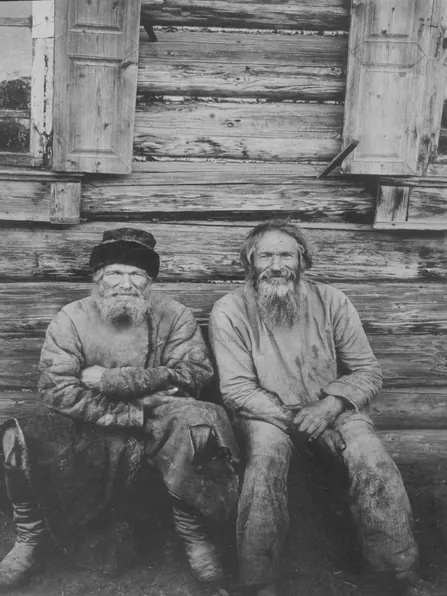
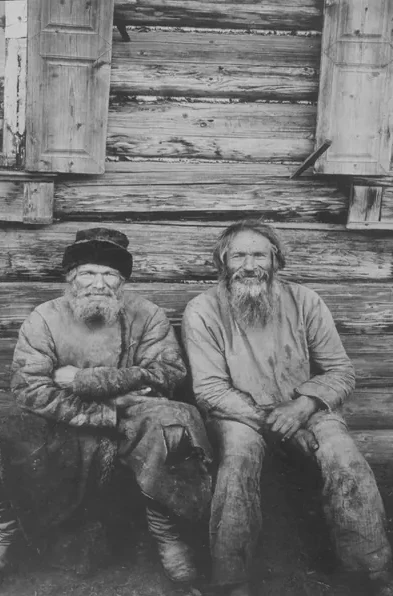
Book page: homepage reviews block with video review card; stack cards: shadow only while overlapping; collage: trim old-men photo sides
Claude-Session: https://claude.ai/code/session_01XBga8g7oiPbhFfgygAHQL5

diff --git a/rodoslovnaya-kniga.html b/rodoslovnaya-kniga.html
@@ -6,7 +6,7 @@
   <title>Родословная книга на заказ — история семьи в одном издании | Древо предков</title>
   <meta name="description" content="Генеалогическое исследование по архивам: ищем и расшифровываем документы о ваших предках и оформляем результат в родословную книгу с родословным древом. Рассчитайте стоимость онлайн.">
   <link rel="icon" href="img/favicon.ico" sizes="any">
-  <link rel="stylesheet" href="css/style.css?v=20261016e">
+  <link rel="stylesheet" href="css/style.css?v=20261016f">
   <script>if (!('onpagereveal' in window)) document.documentElement.classList.add('fade-nav');</script>
 </head>
 <body>
@@ -159,26 +159,44 @@
       </ul>
     </section>
 
-    <!-- ============ ОТЗЫВЫ: слева заголовок, справа две карточки с текстом и видеоотзыв (по ▶ видео открывается поверх страницы, js/main.js) ============ -->
-    <section class="voices voices--side container section" aria-labelledby="voices-title">
-      <h2 class="h2 voices__heading" id="voices-title">Наши заказчики советуют сотрудничество с&nbsp;нами</h2>
-      <div class="voices__grid">
-        <article class="voice">
-          <p class="voice__author"><img src="img/kniga2/avatar.svg" width="39" height="39" alt="">Юлия, Москва</p>
-          <p class="voice__text">Работа была выполнена очень быстро, но&nbsp;в&nbsp;процессе поисков я&nbsp;узнала, что информация мне уже неактуальна и&nbsp;написала об&nbsp;этом Глебу. Даже несмотря на&nbsp;это! Глеб все равно выслал мне документ, который удалось найти, за&nbsp;что я&nbsp;ему безумно благодарна. Всегда был на&nbsp;связи и&nbsp;по&nbsp;максимуму отвечал на&nbsp;все вопросы. Обязательно посоветую друзьям и&nbsp;знакомым.</p>
+    <!-- ============ ОТЗЫВЫ — как на главной; вторая карточка — видеоотзыв: обложка видео на всю карточку с затемнением,
+         по нажатию видео открывается поверх страницы и играет без затемнения (js/main.js) ============ -->
+    <section class="reviews container section" id="reviews">
+      <div class="section-head">
+        <h2 class="h2 reviews__heading quote-title">Что о&nbsp;нас говорят заказчики</h2>
+        <a class="link-more" href="https://www.avito.ru/moskva/predlozheniya_uslug/rodoslovnayagenealogiyadizayn_dreva_4729921847" target="_blank" rel="noopener">Читать все на&nbsp;Авито&nbsp;→</a>
+      </div>
+      <div class="reviews__list scroller">
+        <article class="review">
+          <div>
+            <img class="review__stars" src="img/stars.svg" width="117" height="24" alt="Оценка 5 из 5">
+            <p class="review__text">Работа сделана очень быстро, качественно, по&nbsp;приятной цене, вежливый и&nbsp;честный человек, приятно с&nbsp;такими сотрудничать. Максимально довольна результатом, спасибо большое!!!</p>
+          </div>
+          <p class="review__author"><img src="img/person.svg" width="26" height="26" alt="">Юлия, Калуга</p>
         </article>
-        <article class="voice">
-          <p class="voice__author"><img src="img/kniga2/avatar.svg" width="39" height="39" alt="">Наталья, Рязань</p>
-          <p class="voice__text">Спасибо за&nbsp;проделанную работу!! Генеалогическое древо очень понравилось!! Юбиляр прослезился, получив такой подарок!! В&nbsp;процессе работы замучала правками, спасибо за&nbsp;терпение!!</p>
-        </article>
-        <article class="voice voice--video">
-          <div class="voice__video">
-            <video class="voice__player" preload="none" poster="img/review-video-poster.jpg" playsinline>
+        <article class="review review--video">
+          <div class="voice__video review__video">
+            <video class="voice__player" preload="none" poster="img/review-video-poster.jpg" playsinline muted>
               <source src="video/review-valentina.mp4" type="video/mp4">
             </video>
             <button class="voice__play" type="button" aria-label="Смотреть видеоотзыв Валентины"></button>
           </div>
-          <p class="voice__author"><img src="img/kniga2/avatar.svg" width="39" height="39" alt="">Валентина, Рязань</p>
+          <img class="review__stars" src="img/stars.svg" width="117" height="24" alt="Оценка 5 из 5">
+          <p class="review__author"><img src="img/person.svg" width="26" height="26" alt="">Валентина, Рязань</p>
+        </article>
+        <article class="review">
+          <div>
+            <img class="review__stars" src="img/stars.svg" width="117" height="24" alt="Оценка 5 из 5">
+            <p class="review__text">Знакомство с&nbsp;Глебом было предопределено кем‑то свыше, не&nbsp;иначе!)) Столько новых имен удалось узнать с&nbsp;его помощью&nbsp;— просто не&nbsp;перечесть! Там, куда я&nbsp;не&nbsp;знала как подступиться...</p>
+          </div>
+          <p class="review__author"><img src="img/person.svg" width="26" height="26" alt="">Ирина, Москва</p>
+        </article>
+        <article class="review">
+          <div>
+            <img class="review__stars" src="img/stars.svg" width="117" height="24" alt="Оценка 5 из 5">
+            <p class="review__text">Спасибо за&nbsp;проделанную работу!! Генеалогическое древо очень понравилось!! Юбиляр прослезился, получив такой подарок!! В&nbsp;процессе работы замучила правками, спасибо за&nbsp;терпение!!</p>
+          </div>
+          <p class="review__author"><img src="img/person.svg" width="26" height="26" alt="">Валентина, Рязань</p>
         </article>
       </div>
     </section>
@@ -442,7 +460,7 @@
 </div>
 
 <script src="https://unpkg.com/lenis@1.1.13/dist/lenis.min.js"></script>
-<script src="js/main.js?v=20261016e"></script>
-<script src="js/calculator.js?v=20261016e"></script>
+<script src="js/main.js?v=20261016f"></script>
+<script src="js/calculator.js?v=20261016f"></script>
 </body>
 </html>

diff --git a/css/style.css b/css/style.css
@@ -2510,6 +2510,7 @@ h4, .h4 { font-size: var(--fs-h4); font-weight: 500; line-height: 1.3; letter-sp
 }
 .collage__photo img { position: absolute; top: 0; left: 0; width: 100%; height: 100%; max-width: none; pointer-events: none; user-select: none; }
 .collage__photo--cover img { object-fit: cover; }
+.collage__photo--fill img { top: -1px; left: -1px; width: calc(100% + 2px); height: calc(100% + 2px); }   /* без тонких полосок по краям при дробных размерах */
 /* карточка с подписью — неподвижна */
 .collage__card {
   position: absolute;
@@ -2910,7 +2911,7 @@ h4, .h4 { font-size: var(--fs-h4); font-weight: 500; line-height: 1.3; letter-sp
   padding: var(--sp-20);
   border-radius: var(--radius);
   background: var(--white);
-  box-shadow: 0 -8px 32px rgba(60, 40, 30, .06);
+  box-shadow: 0 -12px 40px rgba(60, 40, 30, calc(.14 * var(--sh, 0)));   /* тень только пока карточка наезжает на предыдущую (--sh задаёт js/main.js) */
 }
 .stack__text { grid-column: 1 / 7; display: flex; flex-direction: column; justify-content: space-between; gap: var(--sp-32); padding: var(--sp-20); }
 .stack__title { font-family: "Cormorant", Georgia, serif; font-size: var(--fs-h2); font-weight: 400; line-height: 1; letter-spacing: -.01em; color: #454329; }
@@ -3012,3 +3013,15 @@ h4, .h4 { font-size: var(--fs-h4); font-weight: 500; line-height: 1.3; letter-sp
 }
 .fly .review__author { opacity: .5; }                /* имя и значок — прозрачность 50% */
 .reviews .review__author { opacity: .5; }             /* имя и значок — прозрачность 50% */
+/* видеоотзыв в ленте отзывов (страница «Родословная книга»): обложка видео на всю карточку, затемнена только в карточке;
+   сверху звёзды, снизу имя; по нажатию видео открывается поверх страницы без затемнения */
+.review--video { position: relative; overflow: hidden; background: #2f2c26; }
+.review--video .review__video { position: absolute; inset: 0; aspect-ratio: auto; border-radius: 0; background: #2f2c26; }
+.review--video .voice__player { position: absolute; inset: 0; }
+.review--video .review__video::after { content: ""; position: absolute; inset: 0; background: linear-gradient(180deg, rgba(20, 18, 14, .62) 0%, rgba(20, 18, 14, .45) 45%, rgba(20, 18, 14, .7) 100%); pointer-events: none; transition: opacity .3s ease; }
+.review--video:hover .review__video::after { opacity: .75; }
+.review--video .voice__play { z-index: 1; }
+.review--video .voice__play::before { width: 56px; height: 56px; margin: -28px 0 0 -28px; }
+.review--video .review__stars, .review--video .review__author { position: relative; z-index: 2; pointer-events: none; }
+.review--video .review__author { color: var(--white); opacity: 1; }
+.review--video .review__author img { filter: brightness(0) invert(1); }

diff --git a/js/main.js b/js/main.js
@@ -612,6 +612,27 @@
     window.addEventListener('scroll', function () { if (over) place(); }, { passive: true });
   });
 
+  /* ---------- Услуги стопкой: тень у карточки плавно появляется, только пока она наезжает на предыдущую;
+     когда под карточкой других не видно — тени нет ---------- */
+  var stackCards = Array.prototype.slice.call(document.querySelectorAll('.stack__card'));
+  if (stackCards.length > 1) {
+    var stackTick = false;
+    var updateStack = function () {
+      stackTick = false;
+      for (var i = 1; i < stackCards.length; i++) {
+        var prev = stackCards[i - 1].getBoundingClientRect();
+        var cur = stackCards[i].getBoundingClientRect();
+        var over = Math.max(0, Math.min(1, (prev.bottom - cur.top) / 160));   // на сколько карточка уже закрыла предыдущую
+        stackCards[i].style.setProperty('--sh', over.toFixed(3));
+      }
+    };
+    window.addEventListener('scroll', function () {
+      if (!stackTick) { stackTick = true; requestAnimationFrame(updateStack); }
+    }, { passive: true });
+    window.addEventListener('resize', updateStack);
+    updateStack();
+  }
+
   /* ---------- Видео на первом экране: при «уменьшить движение» не крутим, показываем первый кадр ---------- */
   document.querySelectorAll('.opening__video').forEach(function (v) {
     var mq = window.matchMedia('(prefers-reduced-motion: reduce)');

diff --git a/issledovanie.html b/issledovanie.html
@@ -6,7 +6,7 @@
   <title>Генеалогическое исследование по архивам — Архивный свиток | Древо предков</title>
   <meta name="description" content="Генеалогическое исследование семьи по архивам России, Украины и Беларуси с результатом в электронном виде: копии документов с расшифровкой и поколенная роспись. Рассчитайте стоимость.">
   <link rel="icon" href="img/favicon.ico" sizes="any">
-  <link rel="stylesheet" href="css/style.css?v=20261016e">
+  <link rel="stylesheet" href="css/style.css?v=20261016f">
   <script>if (!('onpagereveal' in window)) document.documentElement.classList.add('fade-nav');</script>
 </head>
 <body>
@@ -366,7 +366,7 @@
 </div>
 
 <script src="https://unpkg.com/lenis@1.1.13/dist/lenis.min.js"></script>
-<script src="js/main.js?v=20261016e"></script>
-<script src="js/calculator.js?v=20261016e"></script>
+<script src="js/main.js?v=20261016f"></script>
+<script src="js/calculator.js?v=20261016f"></script>
 </body>
 </html>

diff --git a/tochechnye-issledovaniya.html b/tochechnye-issledovaniya.html
@@ -6,7 +6,7 @@
   <title>Точечные генеалогические исследования: поиск документов и подтверждение родства | Древо предков</title>
   <meta name="description" content="Отдельные генеалогические задачи: поиск архивных документов, установление личности предка, подтверждение родства для суда, наследства и гражданства по происхождению. Консультация.">
   <link rel="icon" href="img/favicon.ico" sizes="any">
-  <link rel="stylesheet" href="css/style.css?v=20261016e">
+  <link rel="stylesheet" href="css/style.css?v=20261016f">
   <script>if (!('onpagereveal' in window)) document.documentElement.classList.add('fade-nav');</script>
 </head>
 <body>
@@ -234,6 +234,6 @@
 </div>
 
 <script src="https://unpkg.com/lenis@1.1.13/dist/lenis.min.js"></script>
-<script src="js/main.js?v=20261016e"></script>
+<script src="js/main.js?v=20261016f"></script>
 </body>
 </html>

diff --git a/index.html b/index.html
@@ -6,7 +6,7 @@
   <title>Генеалогическое исследование и родословная книга — Древо предков</title>
   <meta name="description" content="Исследуем историю семьи по архивам России, Украины и Беларуси: метрические книги, ревизские сказки и другие документы. Родословная книга или архивный свиток. Начните с консультации.">
   <link rel="icon" href="img/favicon.ico" sizes="any">
-  <link rel="stylesheet" href="css/style.css?v=20261016e">
+  <link rel="stylesheet" href="css/style.css?v=20261016f">
   <script>document.documentElement.classList.add('is-intro'); if (!('onpagereveal' in window)) document.documentElement.classList.add('fade-nav');</script>
 </head>
 <body>
@@ -662,6 +662,6 @@
 
 </div>
 <script src="https://unpkg.com/lenis@1.1.13/dist/lenis.min.js"></script>
-<script src="js/main.js?v=20261016e"></script>
+<script src="js/main.js?v=20261016f"></script>
 </body>
 </html>

diff --git a/politika_personalnye_dannye_genealogiya.html b/politika_personalnye_dannye_genealogiya.html
@@ -5,7 +5,7 @@
   <meta name="viewport" content="width=device-width, initial-scale=1">
   <title>Политика в отношении обработки персональных данных — Древо предков</title>
   <link rel="icon" href="img/favicon.ico" sizes="any">
-  <link rel="stylesheet" href="css/style.css?v=20261016e">
+  <link rel="stylesheet" href="css/style.css?v=20261016f">
   <script>if (!('onpagereveal' in window)) document.documentElement.classList.add('fade-nav');</script>
 </head>
 <body>
@@ -142,6 +142,6 @@
 
 </div>
 <script src="https://unpkg.com/lenis@1.1.13/dist/lenis.min.js"></script>
-<script src="js/main.js?v=20261016e"></script>
+<script src="js/main.js?v=20261016f"></script>
 </body>
 </html>
